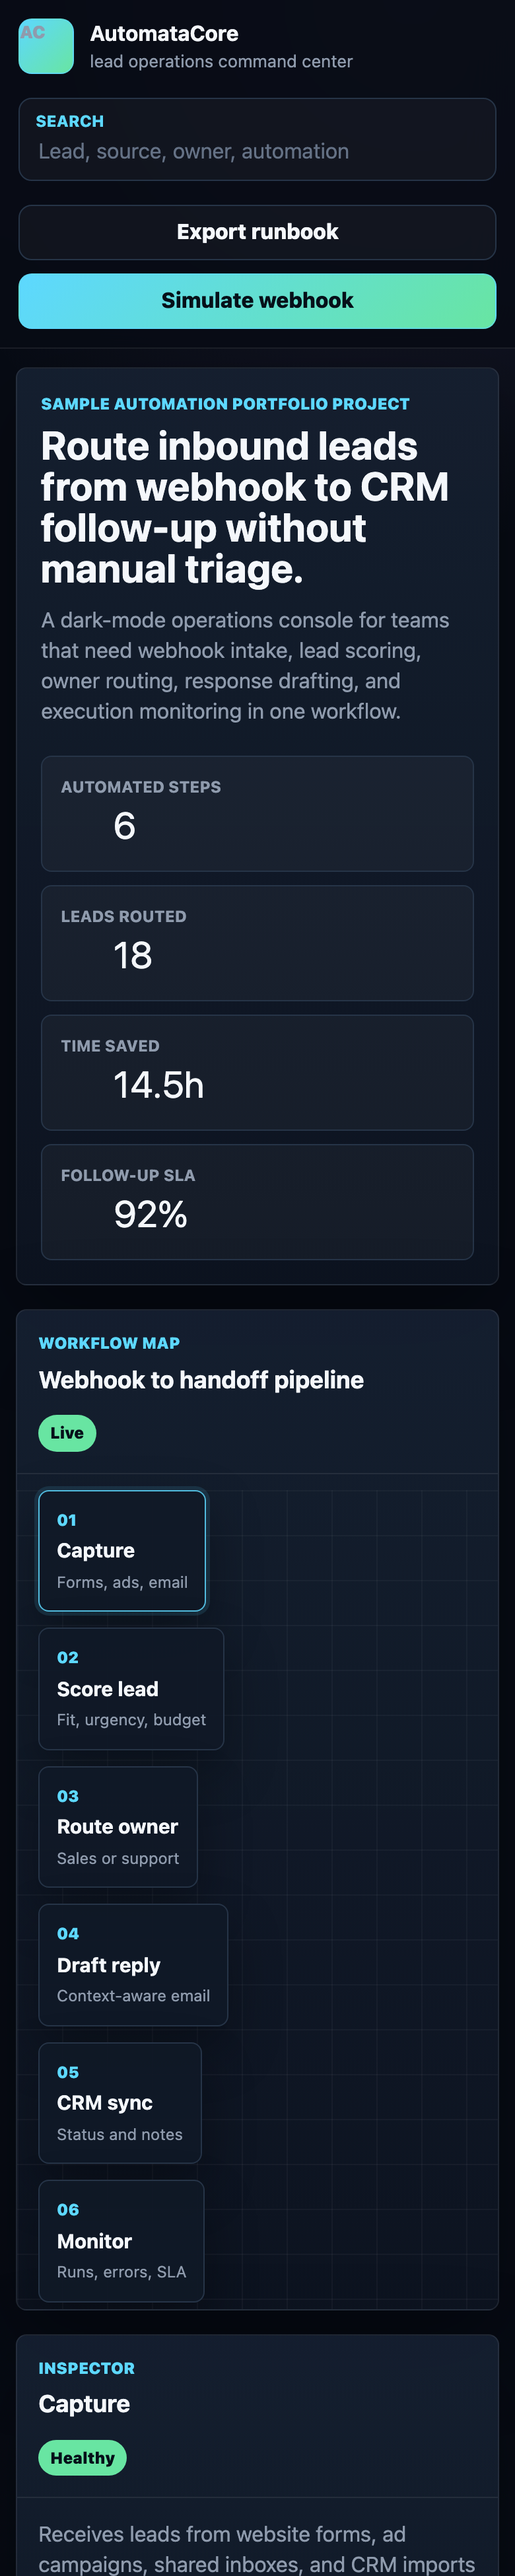
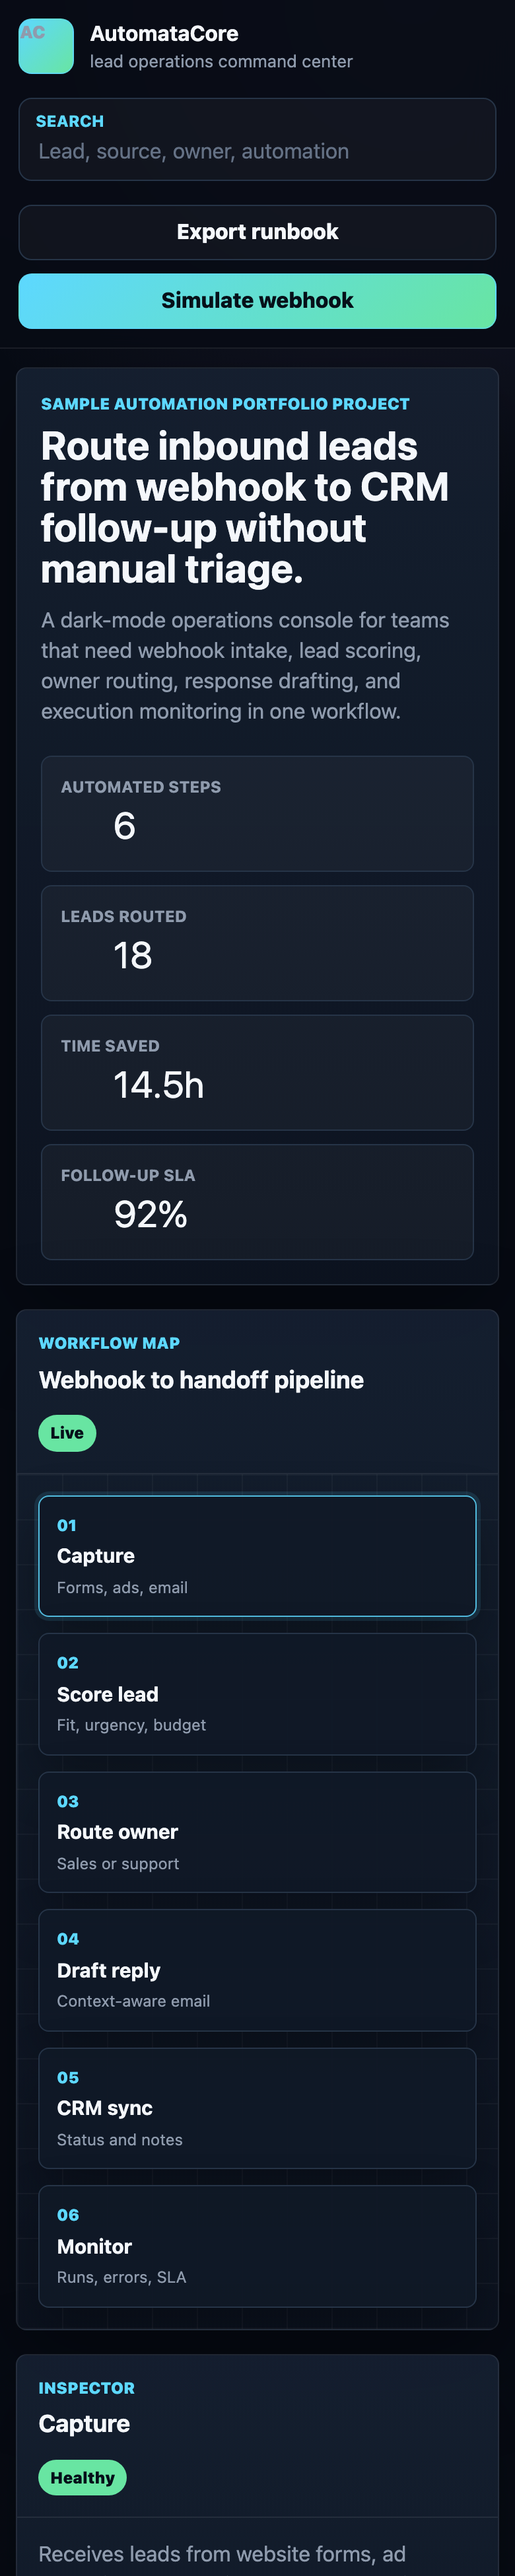
Align automation workflow map for portfolio screenshots
The original workflow map used fixed SVG coordinates while the node buttons used separate CSS positioning, so the lines drifted away from the nodes at the screenshot viewport. The connectors now render from measured node anchors and mobile stacks the nodes as full-width cards.\n\nConstraint: Portfolio cover screenshots must look credible without manual cropping\nRejected: Tweaking static SVG coordinates | would break again across viewport widths\nConfidence: high\nScope-risk: narrow\nDirective: Keep workflow connectors derived from DOM anchors when changing node layout\nTested: node --check app.js; node --check capture script; Playwright desktop/mobile screenshot capture and webhook simulation\nNot-tested: GitHub Pages deployment after this visual fix

Changed region(s): [[0.0308, 0.5585, 0.9846, 1.0], [0.3692, 0.7136, 0.4, 0.7446]]

diff --git a/app.js b/app.js
@@ -139,6 +139,8 @@ const queueFilter = document.querySelector("#queueFilter");
 const globalSearch = document.querySelector("#globalSearch");
 const simulateWebhook = document.querySelector("#simulateWebhook");
 const exportRunbook = document.querySelector("#exportRunbook");
+const flowCanvas = document.querySelector("#flowCanvas");
+const flowLines = document.querySelector(".flow-lines");
 
 let activeNode = "capture";
 let runCount = events.length;
@@ -170,6 +172,50 @@ function setNode(nodeKey) {
   flowNodes.forEach((button) => {
     button.classList.toggle("active", button.dataset.node === activeNode);
   });
+  renderFlowLines();
+}
+
+function nodeButton(nodeKey) {
+  return document.querySelector(`[data-node="${nodeKey}"]`);
+}
+
+function anchor(nodeKey, side) {
+  const node = nodeButton(nodeKey).getBoundingClientRect();
+  const canvas = flowCanvas.getBoundingClientRect();
+  const x = side === "right" ? node.right - canvas.left : node.left - canvas.left;
+  return {
+    x,
+    y: node.top - canvas.top + node.height / 2,
+  };
+}
+
+function connectorPath(from, to) {
+  const distance = Math.max(72, Math.abs(to.x - from.x) * 0.48);
+  return `M ${from.x.toFixed(1)} ${from.y.toFixed(1)} C ${(from.x + distance).toFixed(1)} ${from.y.toFixed(1)}, ${(to.x - distance).toFixed(1)} ${to.y.toFixed(1)}, ${to.x.toFixed(1)} ${to.y.toFixed(1)}`;
+}
+
+function renderFlowLines() {
+  if (!flowCanvas || !flowLines || window.matchMedia("(max-width: 1120px)").matches) return;
+
+  const canvas = flowCanvas.getBoundingClientRect();
+  flowLines.setAttribute("viewBox", `0 0 ${canvas.width.toFixed(1)} ${canvas.height.toFixed(1)}`);
+
+  const pairs = [
+    ["capture", "classify"],
+    ["classify", "route"],
+    ["classify", "draft"],
+    ["route", "crm"],
+    ["draft", "crm"],
+    ["crm", "monitor"],
+  ];
+
+  flowLines.innerHTML = pairs
+    .map(([from, to]) => {
+      const start = anchor(from, "right");
+      const end = anchor(to, "left");
+      return `<path d="${connectorPath(start, end)}"></path>`;
+    })
+    .join("");
 }
 
 function renderLeads() {
@@ -281,3 +327,8 @@ exportRunbook.addEventListener("click", downloadRunbook);
 setNode("capture");
 renderLeads();
 renderEvents();
+window.addEventListener("resize", renderFlowLines);
+if ("ResizeObserver" in window) {
+  new ResizeObserver(renderFlowLines).observe(flowCanvas);
+}
+requestAnimationFrame(renderFlowLines);

diff --git a/styles.css b/styles.css
@@ -294,6 +294,7 @@ h2 {
   inset: 0;
   width: 100%;
   height: 100%;
+  pointer-events: none;
 }
 
 .flow-lines path {
@@ -301,6 +302,7 @@ h2 {
   stroke: rgba(93, 216, 255, 0.36);
   stroke-linecap: round;
   stroke-width: 3;
+  vector-effect: non-scaling-stroke;
 }
 
 .flow-node {
@@ -340,33 +342,33 @@ h2 {
 }
 
 .source {
-  left: 50px;
-  top: 54px;
+  left: 5%;
+  top: 164px;
 }
 
 .classify {
-  left: 312px;
-  top: 122px;
+  left: 24%;
+  top: 164px;
 }
 
 .route {
-  right: 170px;
-  top: 54px;
+  left: 46%;
+  top: 62px;
 }
 
 .draft {
-  right: 170px;
-  top: 190px;
+  left: 46%;
+  top: 266px;
 }
 
 .crm {
-  right: 28px;
-  top: 122px;
+  left: 68%;
+  top: 164px;
 }
 
 .monitor {
-  right: 28px;
-  bottom: 46px;
+  left: calc(100% - 184px);
+  top: 164px;
 }
 
 .inspector-surface {
@@ -549,7 +551,10 @@ select {
   }
 
   .flow-canvas {
-    min-height: 620px;
+    display: grid;
+    gap: 12px;
+    min-height: auto;
+    padding: 16px;
   }
 
   .flow-lines {
@@ -558,8 +563,9 @@ select {
 
   .flow-node {
     position: static;
-    width: auto;
-    margin: 12px 16px;
+    width: 100%;
+    max-width: 360px;
+    margin: 0;
   }
 }
 

diff --git a/index.html b/index.html
@@ -66,14 +66,7 @@
               <span class="live-pill">Live</span>
             </div>
             <div class="flow-canvas" id="flowCanvas" aria-live="polite">
-              <svg class="flow-lines" viewBox="0 0 900 420" aria-hidden="true">
-                <path d="M130 88 C220 88, 235 156, 325 156" />
-                <path d="M430 156 C515 156, 525 88, 615 88" />
-                <path d="M430 156 C515 156, 525 224, 615 224" />
-                <path d="M720 88 C770 88, 790 156, 840 156" />
-                <path d="M720 224 C770 224, 790 156, 840 156" />
-                <path d="M130 316 C270 316, 565 316, 840 316" />
-              </svg>
+              <svg class="flow-lines" aria-hidden="true"></svg>
               <button class="flow-node source active" data-node="capture" type="button">
                 <span>01</span>
                 <strong>Capture</strong>
